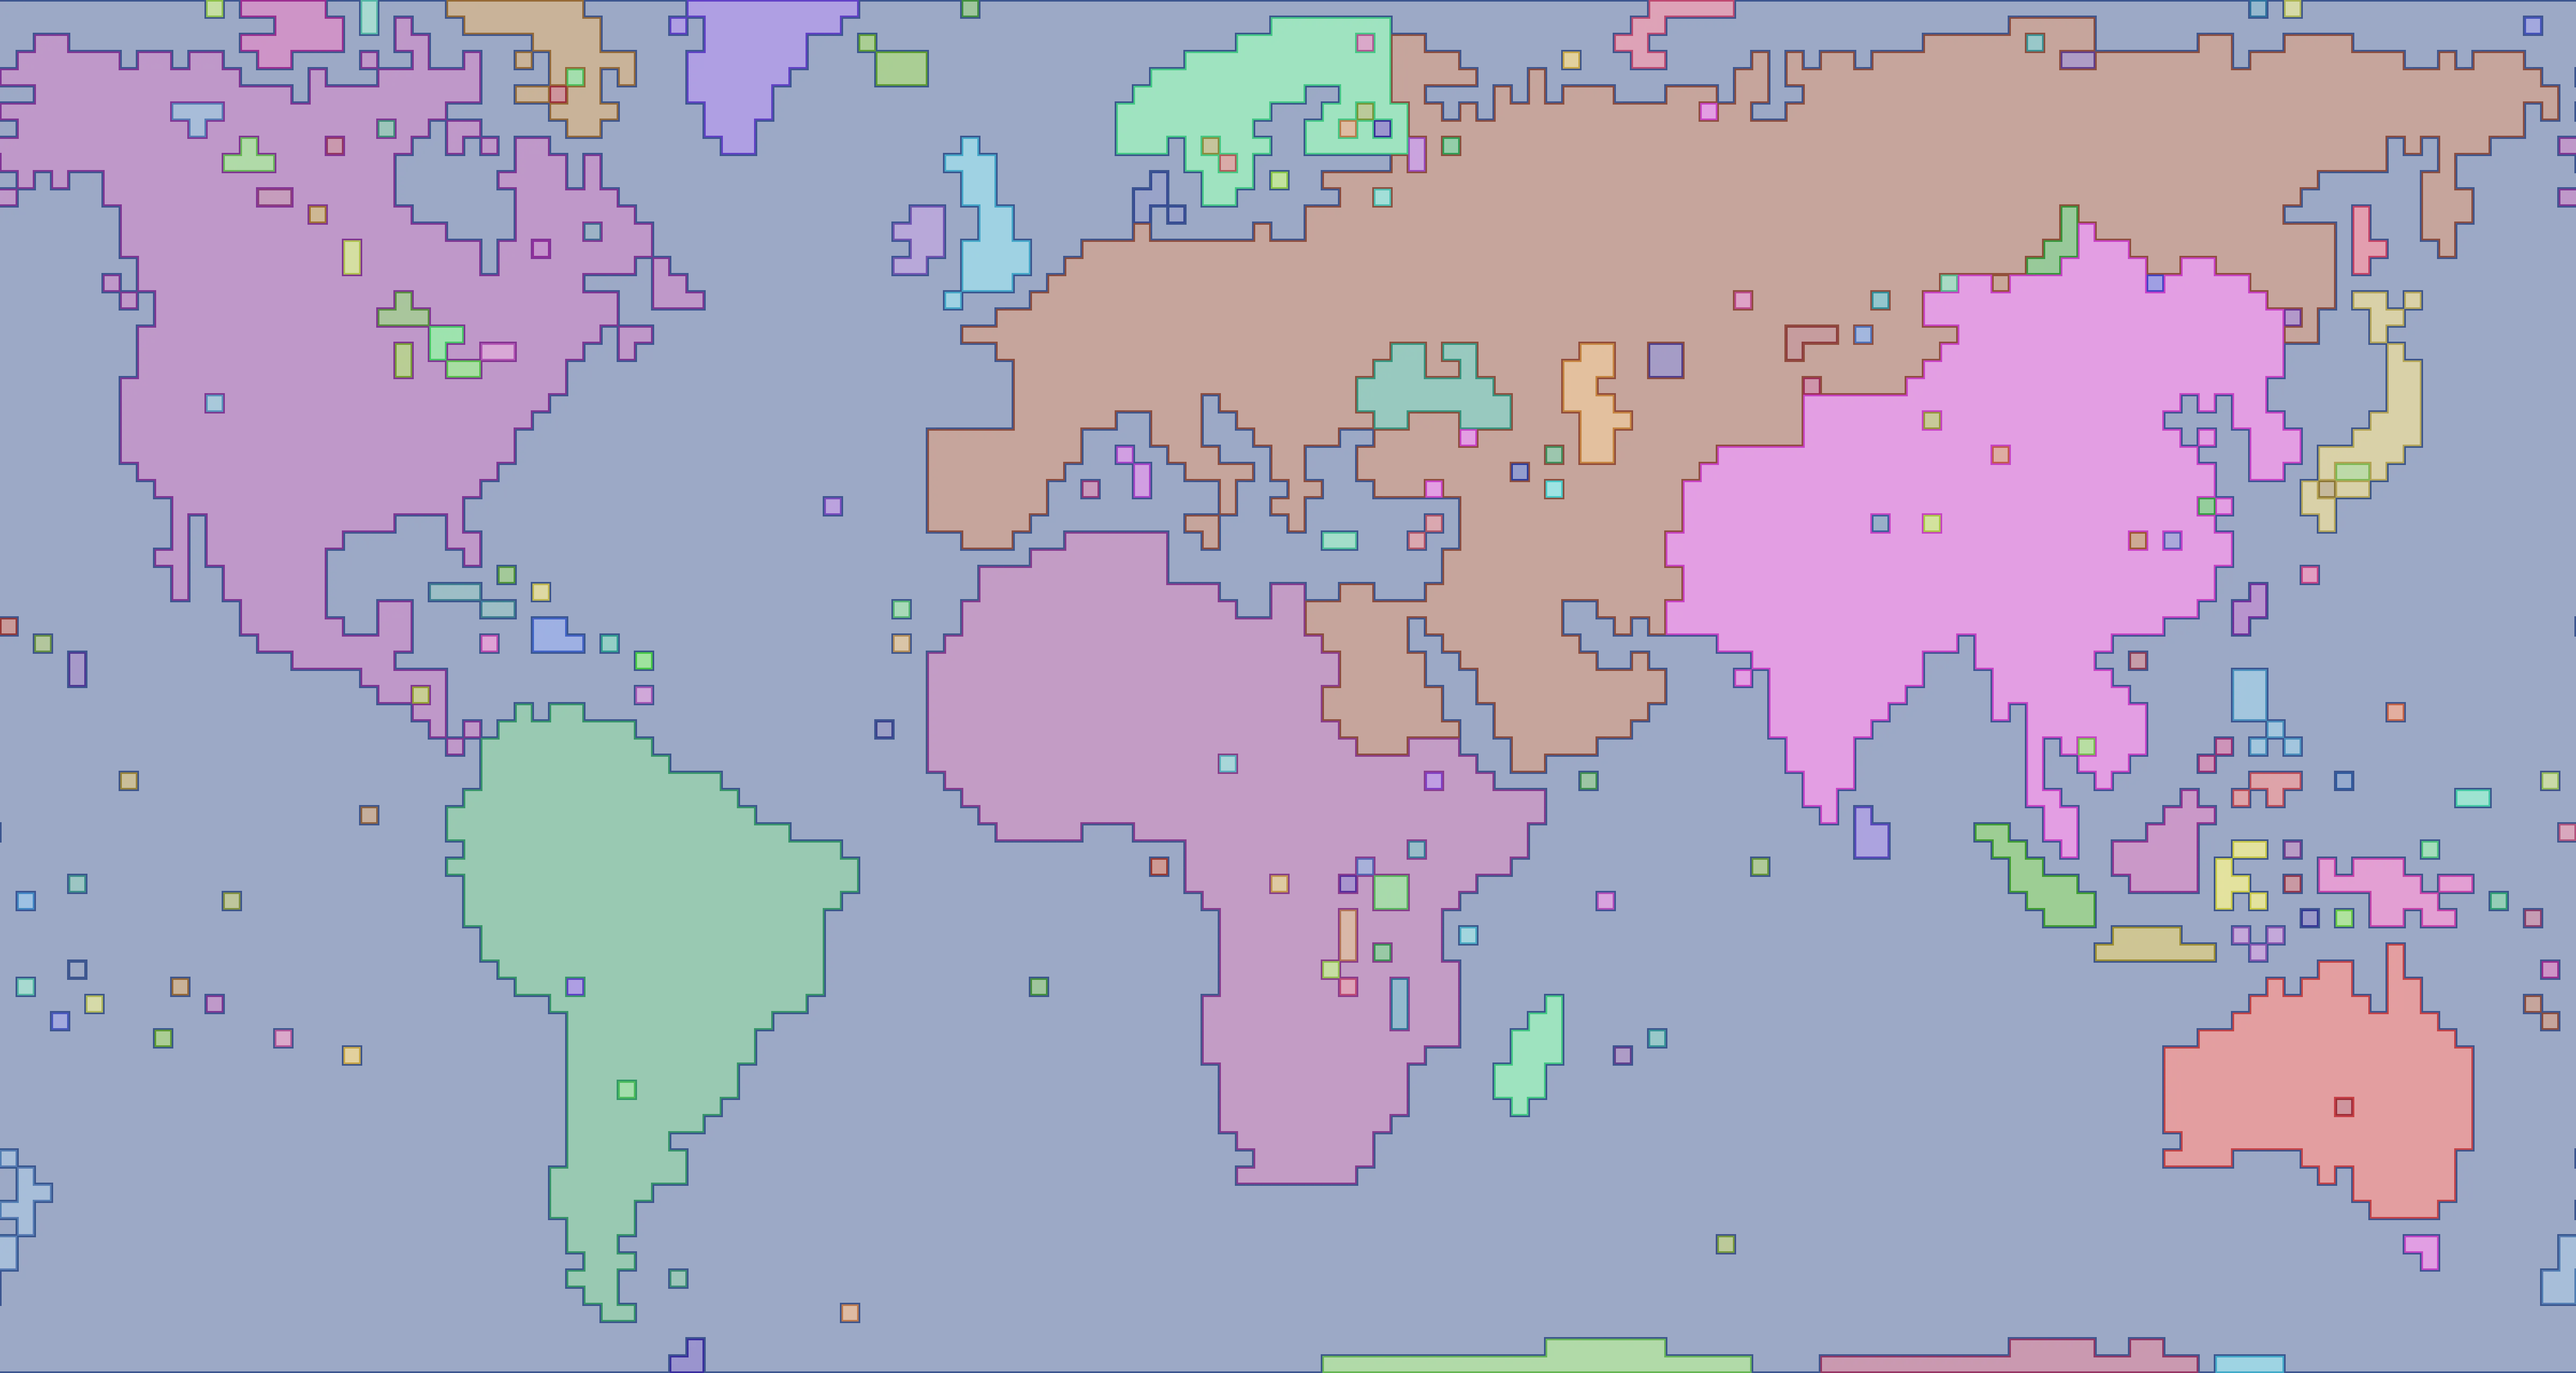
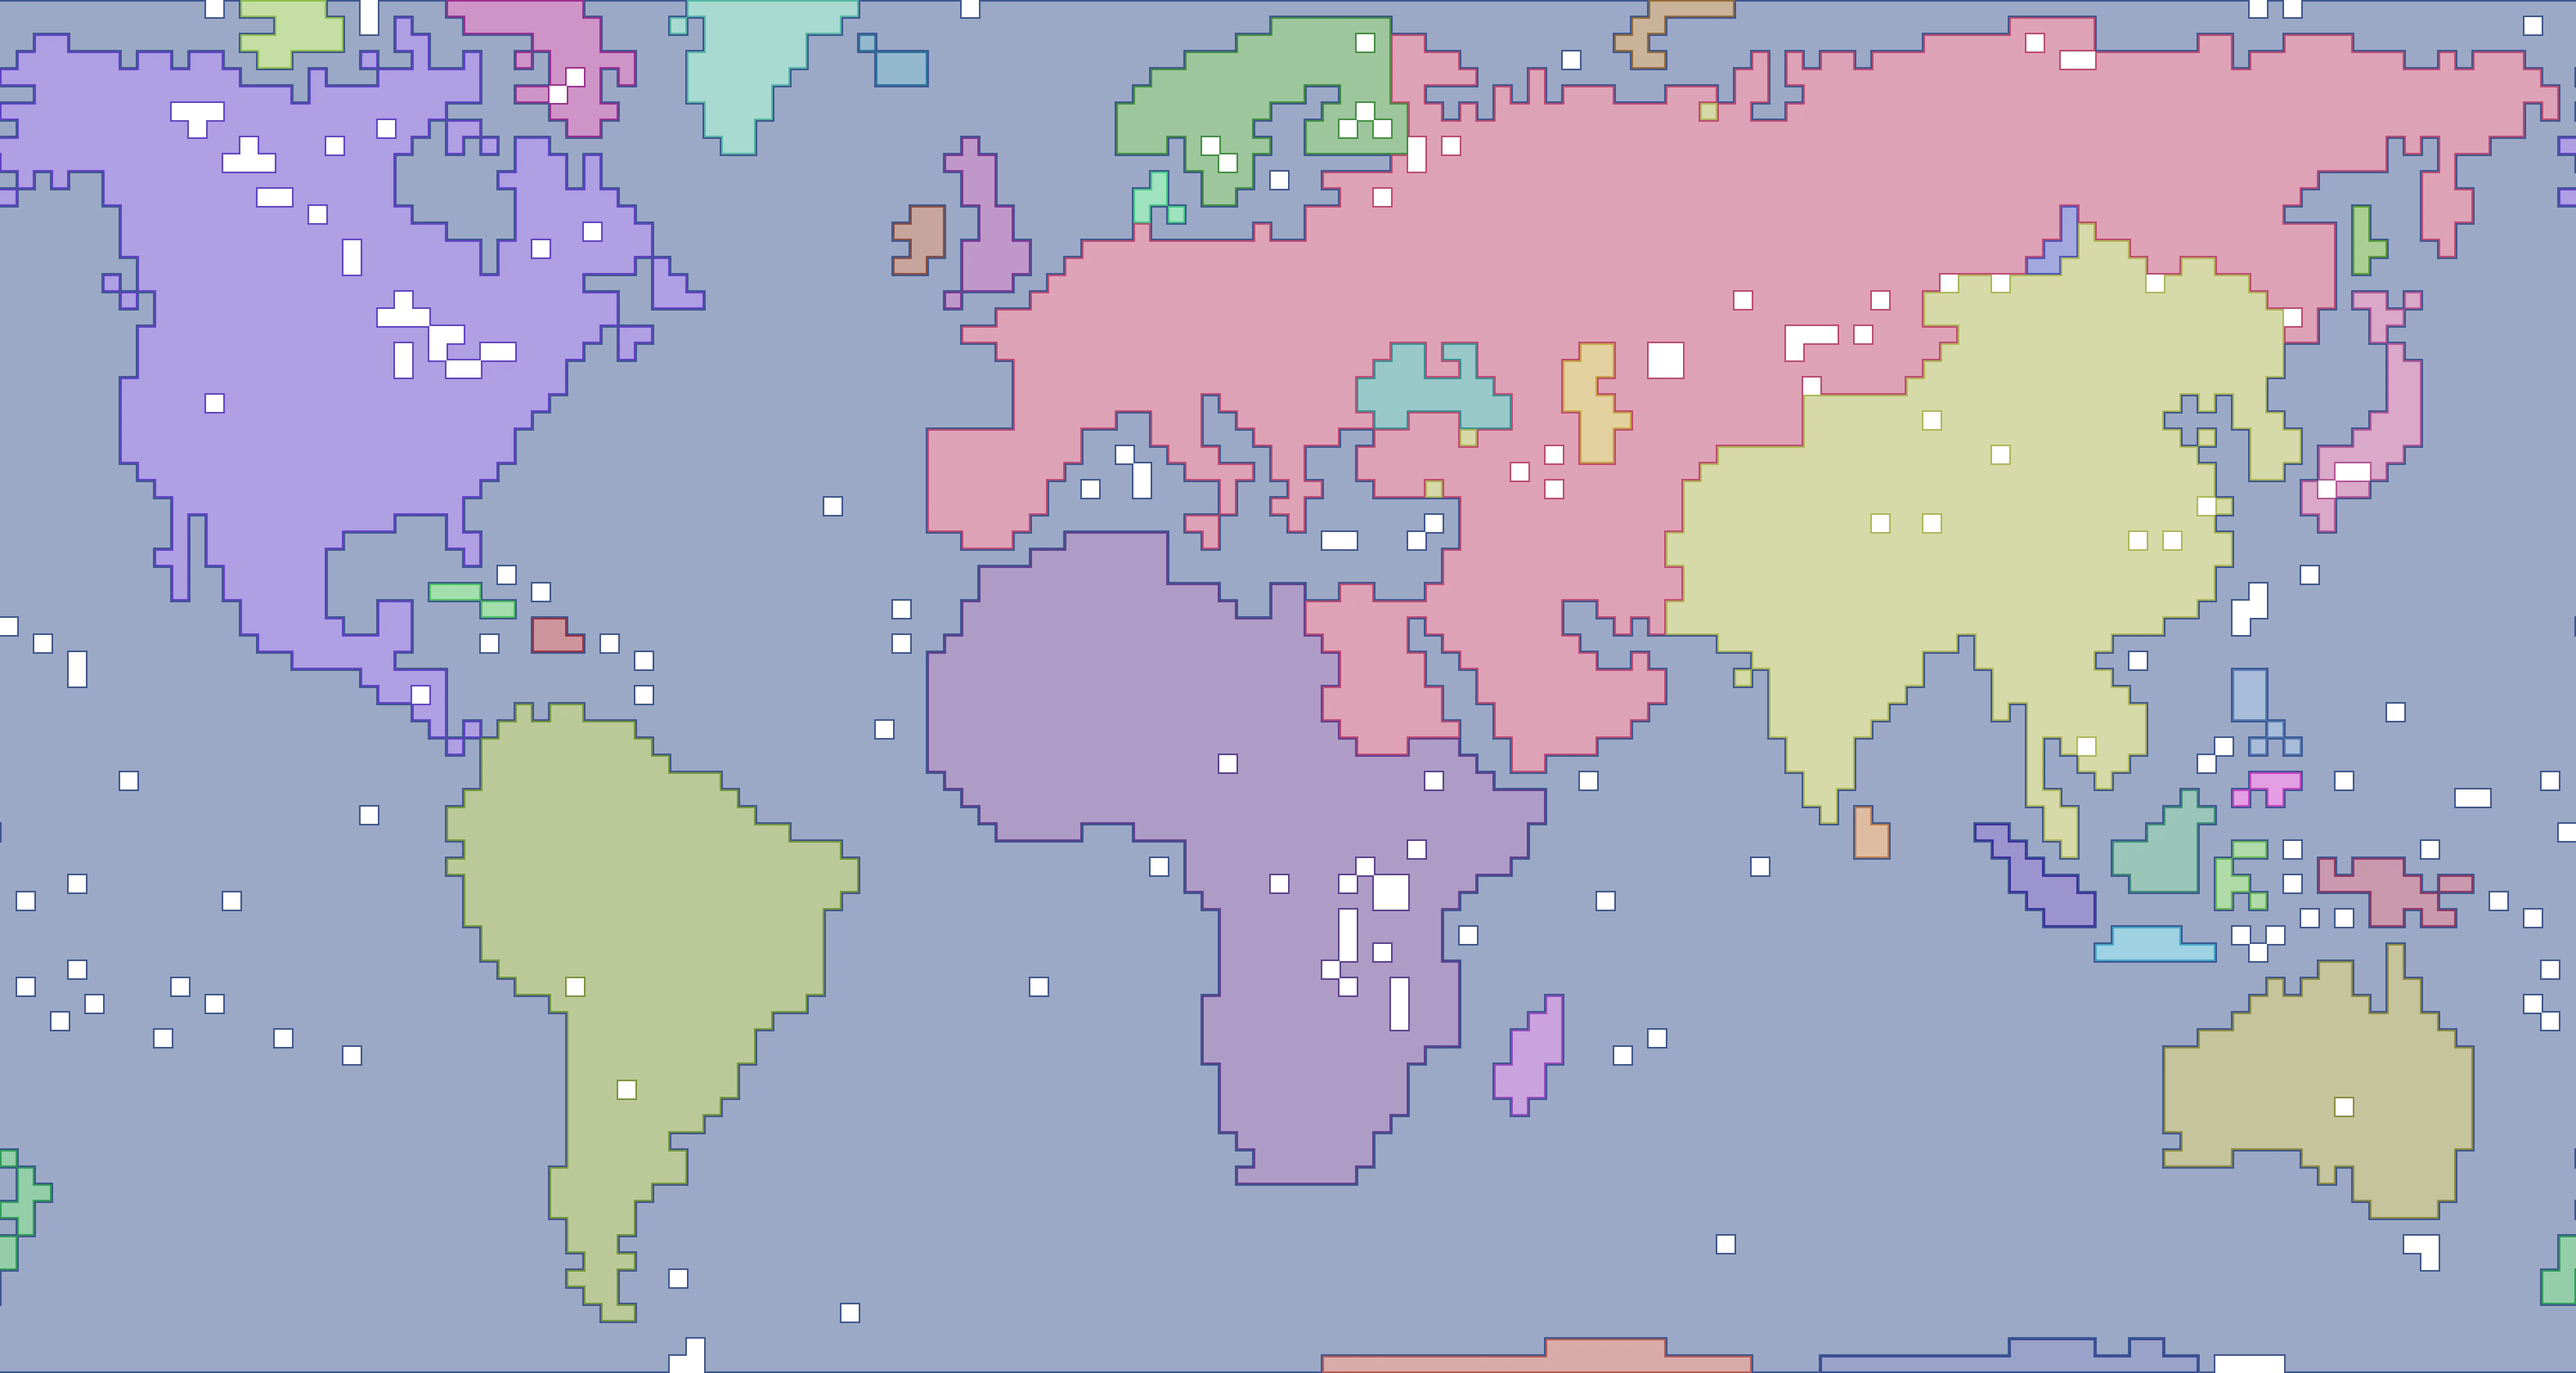
improved visuals of geography maps

diff --git a/python/DrawMaps/DrawGeograpyhMaps.py b/python/DrawMaps/DrawGeograpyhMaps.py
@@ -45,7 +45,7 @@ def filter_regions(dRegionOutlines, dRegionTiles, dRegionNeigbours, min_size=2):
     
     
 ### TODO: needs a refactor, splitting up into smaller functions.
-def DrawRegionMap(json_config, region_type, tile_size, line_strength):
+def DrawRegionMap(json_config, region_type, bOnlyLand, tile_size, line_strength):
     dRegionOutlines = {}
     dRegionNeigbours = {}
     dRegionColors = {}
@@ -56,9 +56,13 @@ def DrawRegionMap(json_config, region_type, tile_size, line_strength):
     ## 1. get Region outline and Region neighbours
     for (x, y), tile_info in dTileMap.items():
         region = tile_info.get(region_type)
+        filter = region >= 100 if bOnlyLand else region<100
+        if region_type == "region" and filter:
+            continue
         if region not in dRegionTiles:
             dRegionTiles[region] = []
         dRegionTiles[region].append((x, y))
+        
         
         lines = []
         inset = (line_strength-1) // 2  # Inset to avoid overlap with neighbouring tiles
@@ -103,9 +107,15 @@ def DrawRegionMap(json_config, region_type, tile_size, line_strength):
     # 2. Draw Region outlines in differnt colors
     # set colors for regions, ensuring neighboring regions have different colors
     COLORSCHEME = generate_color_scheme(len(dRegionTiles))[1]  # Generate a color scheme 
-    
     for i, region in enumerate(dRegionTiles):
         dRegionColors[region] = COLORSCHEME[i]
+        
+    if region_type == "region":
+        num_colors = 20 if bOnlyLand else 10
+        COLORSCHEME = generate_color_scheme(num_colors)[1]
+        for i, region in enumerate(dRegionTiles):
+            dRegionColors[region] = COLORSCHEME[i % num_colors]
+    
     
 
     
@@ -128,16 +138,29 @@ def DrawRegionMap(json_config, region_type, tile_size, line_strength):
         line_color = dRegionColors[region]
         for start, end in lines:
             draw.line([start, end], fill=line_color, width=line_strength)
-
-    img_path = config.OUTPUT_PATH / f"maps/layers/Geography/{region_type}.webp"
+    filename = f"{region_type}.webp"
+    if region_type == "region":
+        if bOnlyLand:
+            filename = "region_land.webp"
+        else:
+            filename = "region_water.webp"
+    img_path = config.OUTPUT_PATH / f"maps/layers/Geography/{filename}"
     img.save(img_path, "WEBP", quality=80, method=6)  # Save as WebP with good compression
 
     
     # save img
     # and add entry to layers config
+    display_name = f"{region_type.capitalize()} Map"
+    if region_type == "landmass":
+        display_name = "Landmass Map (>4 tiles)"
+    if region_type =="region":
+        if bOnlyLand:
+            display_name = "Region Map - Land"
+        else:
+            display_name = "Region Map - Water"
     add_layer_config_entry(
                             config = json_config,
-                            text = f"{region_type.capitalize()} map",
+                            text = display_name,
                             category="Geography",
                             image_path = Path(img_path).relative_to(config.OUTPUT_PATH),
                             image_size = img.size
@@ -148,7 +171,8 @@ def DrawRegionMap(json_config, region_type, tile_size, line_strength):
 
 
 def DrawGeographyMaps(json_config):
-    DrawRegionMap(json_config, region_type="region", tile_size=TILE_SIZE, line_strength=3)
-    DrawRegionMap(json_config, region_type="landmass", tile_size=TILE_SIZE, line_strength=3)
-    DrawRegionMap(json_config, region_type="continent", tile_size=TILE_SIZE, line_strength=5)
+    DrawRegionMap(json_config, region_type="region", bOnlyLand=True, tile_size=TILE_SIZE, line_strength=3)
+    DrawRegionMap(json_config, region_type="region", bOnlyLand=False, tile_size=TILE_SIZE, line_strength=3)
+    DrawRegionMap(json_config, region_type="landmass",bOnlyLand=True, tile_size=TILE_SIZE, line_strength=3)
+    DrawRegionMap(json_config, region_type="continent", bOnlyLand=True, tile_size=TILE_SIZE, line_strength=5)
     
